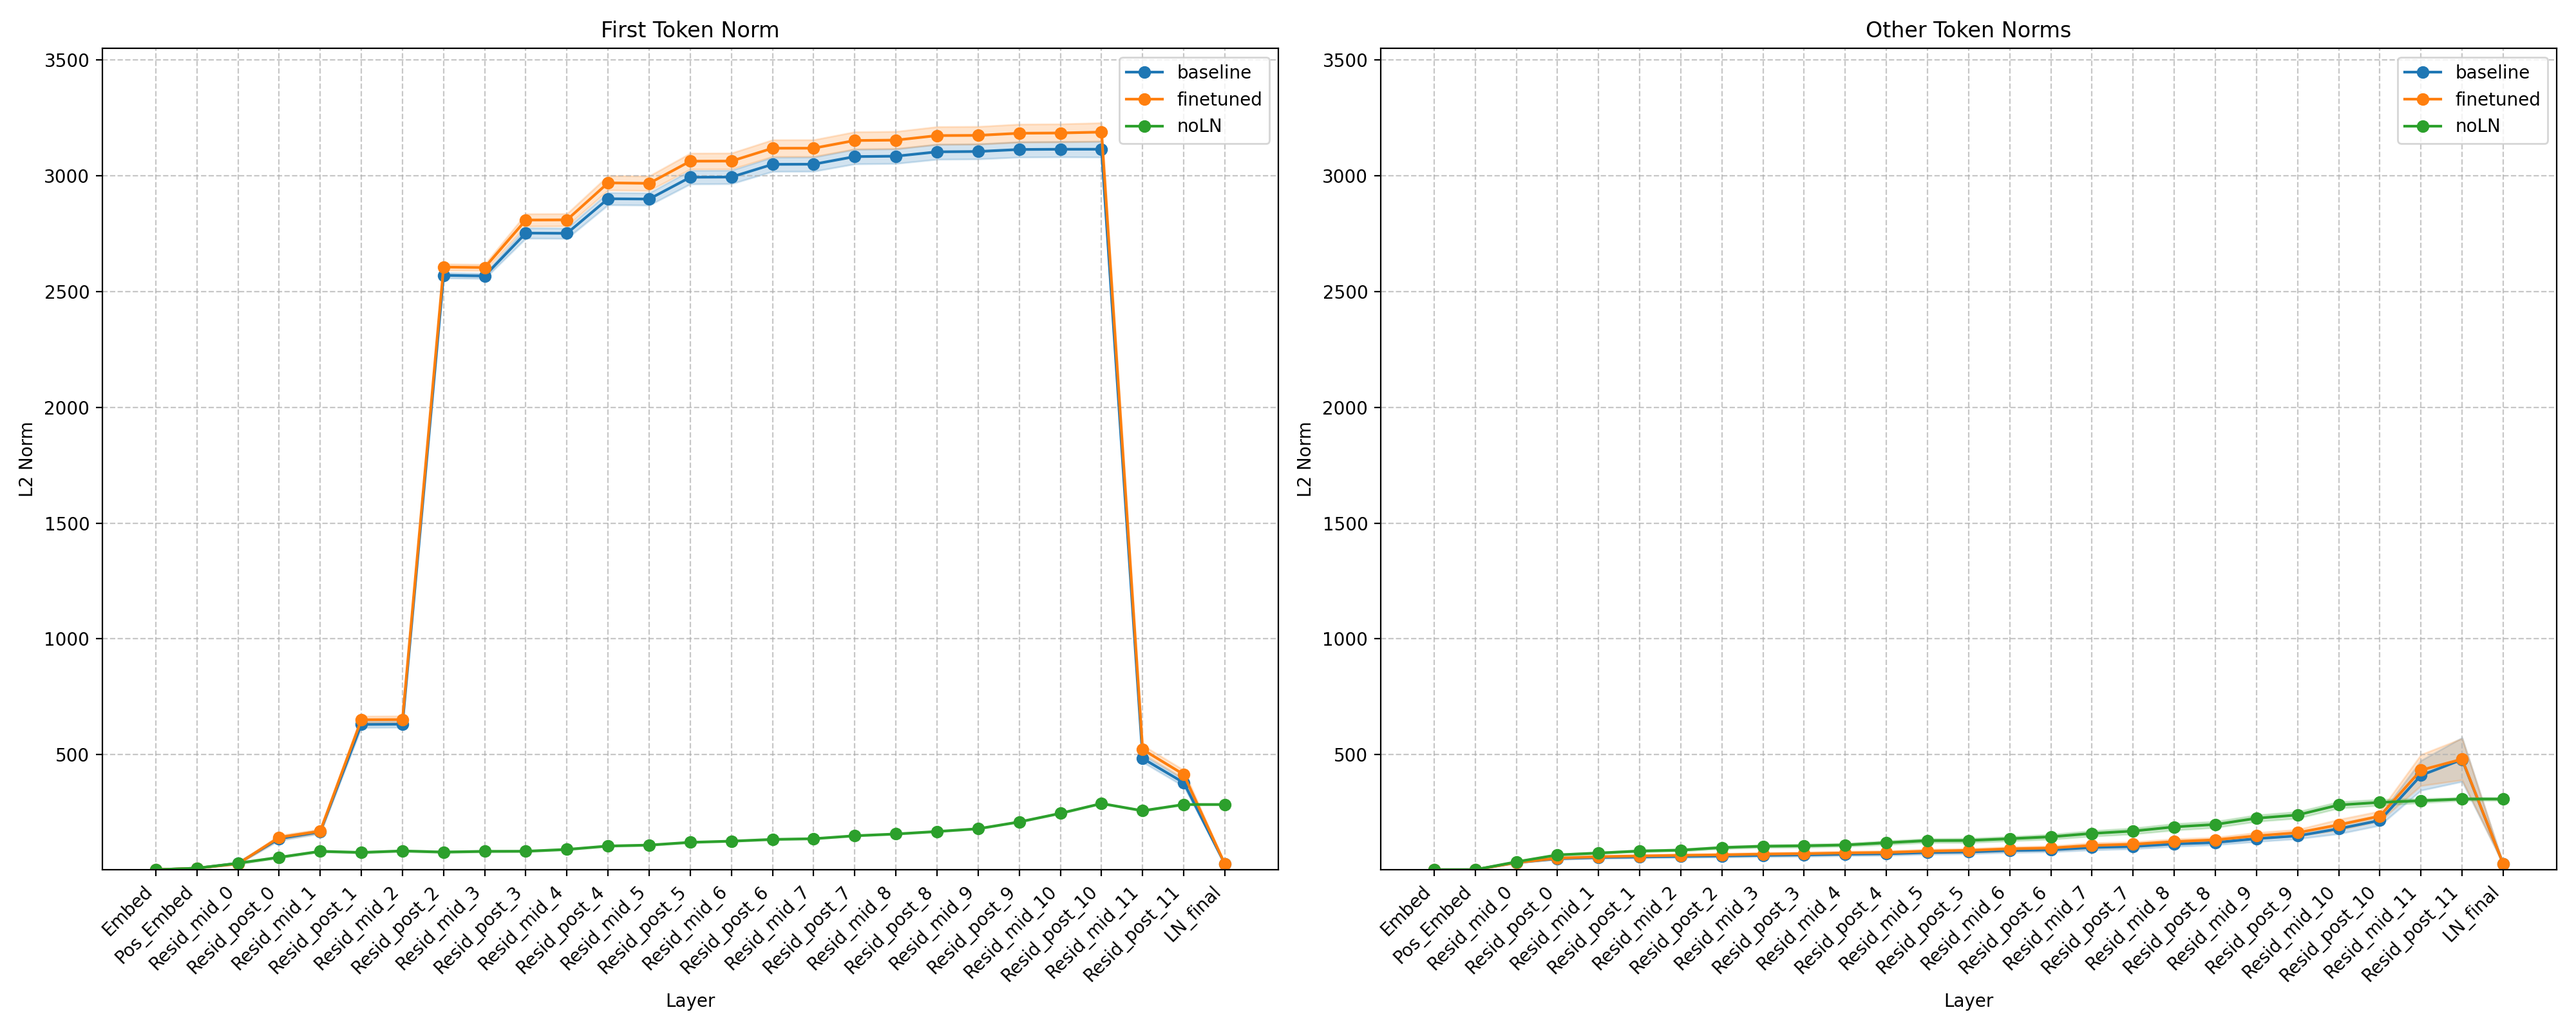
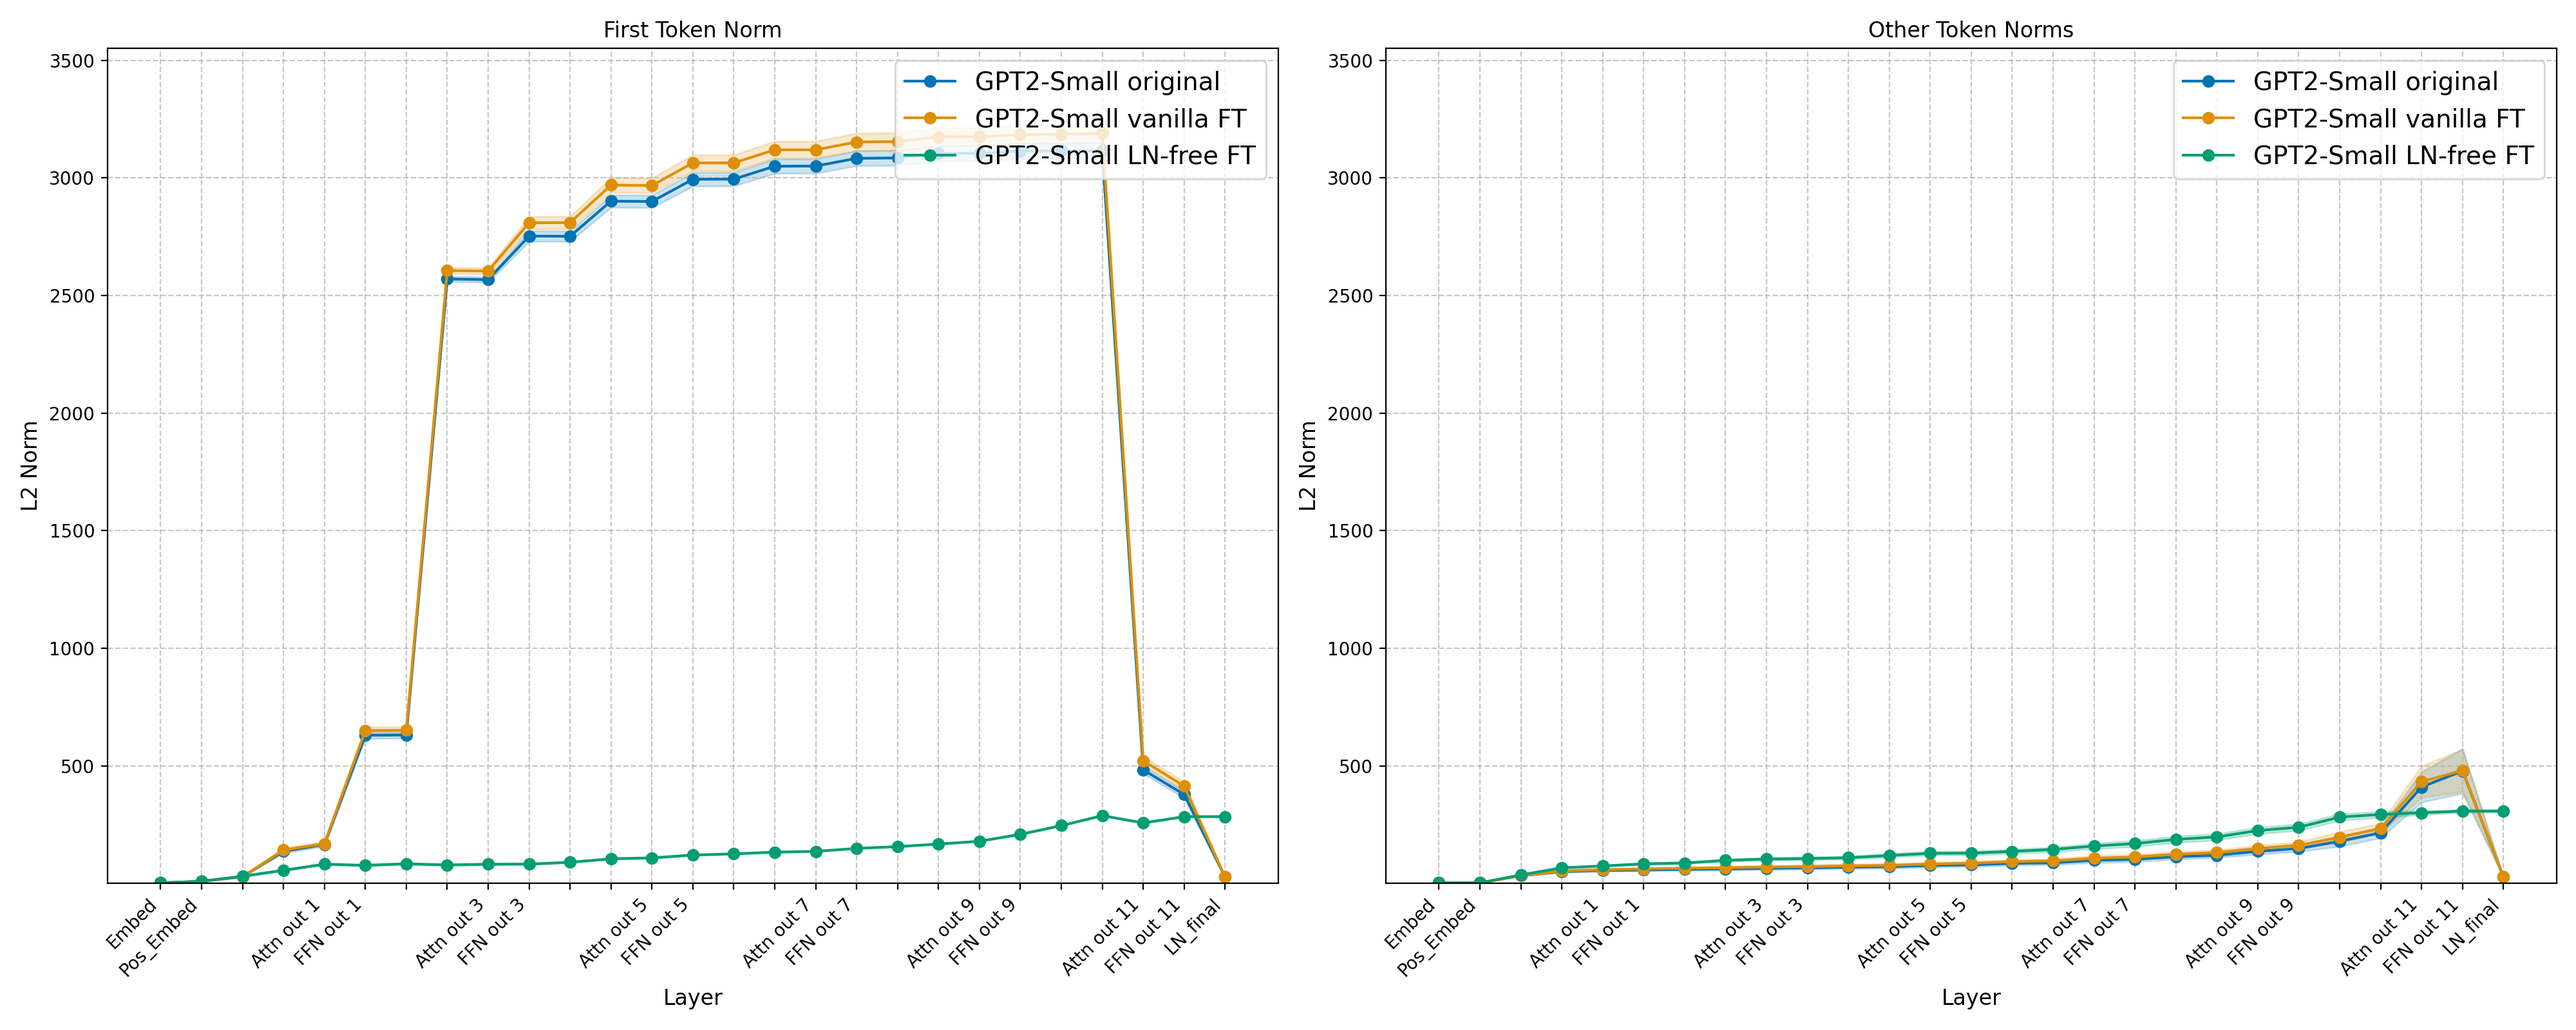
resid norm finished

diff --git a/mech_interp/residual_stream/residual_norms.py b/mech_interp/residual_stream/residual_norms.py
@@ -383,7 +383,7 @@ class ResidualNorms:
             readable_labels = create_readable_tick_labels(x_labels)
             ax.set_xlabel('Layer', fontsize=12)
             ax.set_ylabel('L2 Norm', fontsize=12)
-            #ax.set_title(f'{pos_title}')
+            ax.set_title(f'{pos_title}')
             ax.set_xticks(np.arange(len(x_labels)))
             ax.set_xticklabels(readable_labels, rotation=45, ha='right')
             ax.grid(True, linestyle='--', alpha=0.7)
@@ -478,7 +478,7 @@ class ResidualNorms:
             # Set labels and title
             ax.set_xlabel('Layer Output', fontsize=12)
             ax.set_ylabel('Cosine Similarity', fontsize=12)
-            #ax.set_title(f'{pos_title}',)
+            ax.set_title(f'{pos_title}')
             
             # Set x-ticks
             readable_labels = create_readable_tick_labels(x_labels)
@@ -589,7 +589,7 @@ class ResidualNorms:
             readable_labels = create_readable_tick_labels(x_labels)
             ax.set_xlabel('Layer Transition', fontsize=12)
             ax.set_ylabel('L2 Norm Growth Ratio (Output/Input)', fontsize=12)
-            #ax.set_title(f'{pos_title}')
+            ax.set_title(f'{pos_title}')
             ax.set_xticks(np.arange(len(x_labels)))
             ax.set_xticklabels(readable_labels, rotation=45, ha='right')
             ax.grid(True, linestyle='--', alpha=0.7)
@@ -657,14 +657,14 @@ def create_readable_tick_labels(layers):
 if __name__ == '__main__':
     model_str = 'small'
     data_paths = f'/workspace/removing-layer-norm/mech_interp/inference_logs/gpt2-{model_str}_dataset_luca-pile_samples_1000_seqlen_512_prepend_False/inference_results.parquet'
-    output_dir = 'figures/medium/last_token'
+    output_dir = f'figures/{model_str}/bos_vs_rest'
     # Ensure output directory exists
     os.makedirs(output_dir, exist_ok=True)
     
     analyzer = ResidualNorms(
         data_paths=data_paths,
         model_dir="../models",
-        last_token_only=True,
+        last_token_only=False,
         model_size=model_str
     )
     
